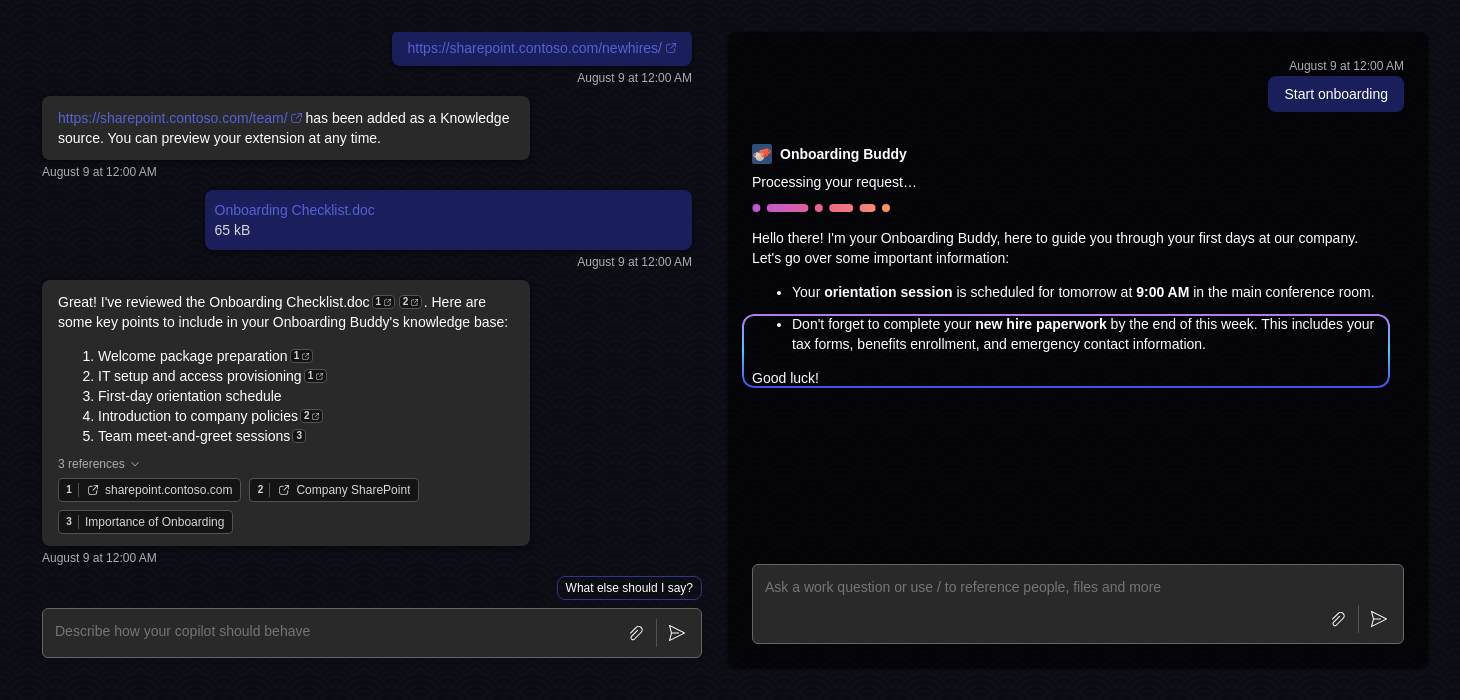
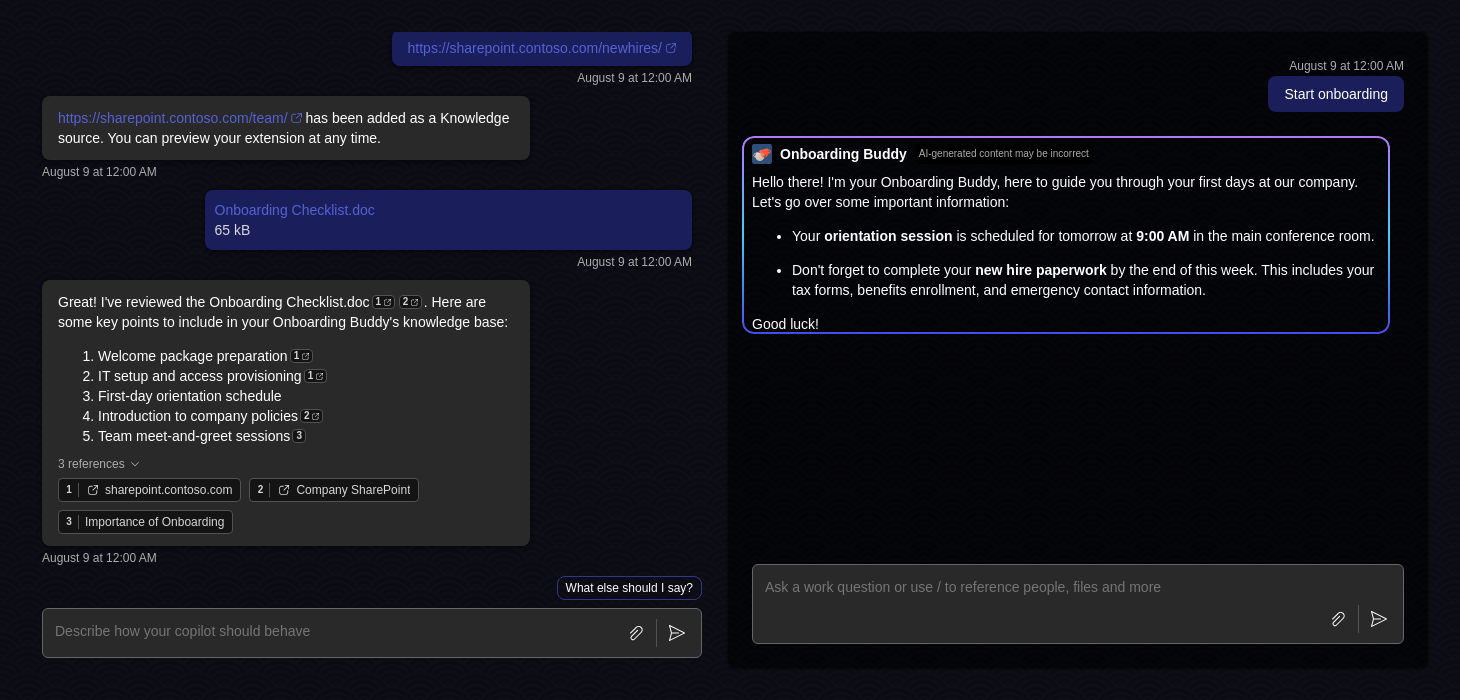
Update streaming test data to better match reality This results in a single combined message rather than 3 separate messages

diff --git a/__tests__/html2/side-by-side/index.html b/__tests__/html2/side-by-side/index.html
@@ -577,7 +577,7 @@ If your access is still pending, consider emailing your manager to remind them t
           text: "Hello there! I'm your Onboarding Buddy, here to guide you through your first days at our company. Let's go over some important information:\n\n- Your **orientation session** is scheduled for tomorrow at **9:00 AM** in the main conference room.",
           channelData: {
             streamType: "streaming",
-            streamId: "a4c0c01d-c06e-4dde-9278-265c607b5457",
+            streamId: "a4c0c01d-c06e-4dde-9278-265c607b545b",
             streamSequence: 90
           }
         },
@@ -585,9 +585,9 @@ If your access is still pending, consider emailing your manager to remind them t
           timestamp: timestamp(),
           from: { role: 'bot' },
           entities: [aiMessageEntity],
-          id: "a4c0c01d-c06e-4dde-9278-265c607b545b-82",
+          id: "a4c0c01d-c06e-4dde-9278-265c607b545b",
           type: "message",
-          text: "- Don't forget to complete your **new hire paperwork** by the end of this week. This includes your tax forms, benefits enrollment, and emergency contact information.\n\nGood luck!",
+          text: "Hello there! I'm your Onboarding Buddy, here to guide you through your first days at our company. Let's go over some important information:\n\n- Your **orientation session** is scheduled for tomorrow at **9:00 AM** in the main conference room.\n\n- Don't forget to complete your **new hire paperwork** by the end of this week. This includes your tax forms, benefits enrollment, and emergency contact information.\n\nGood luck!",
           channelData: {
             streamType: "final",
             streamId: "a4c0c01d-c06e-4dde-9278-265c607b5457",
